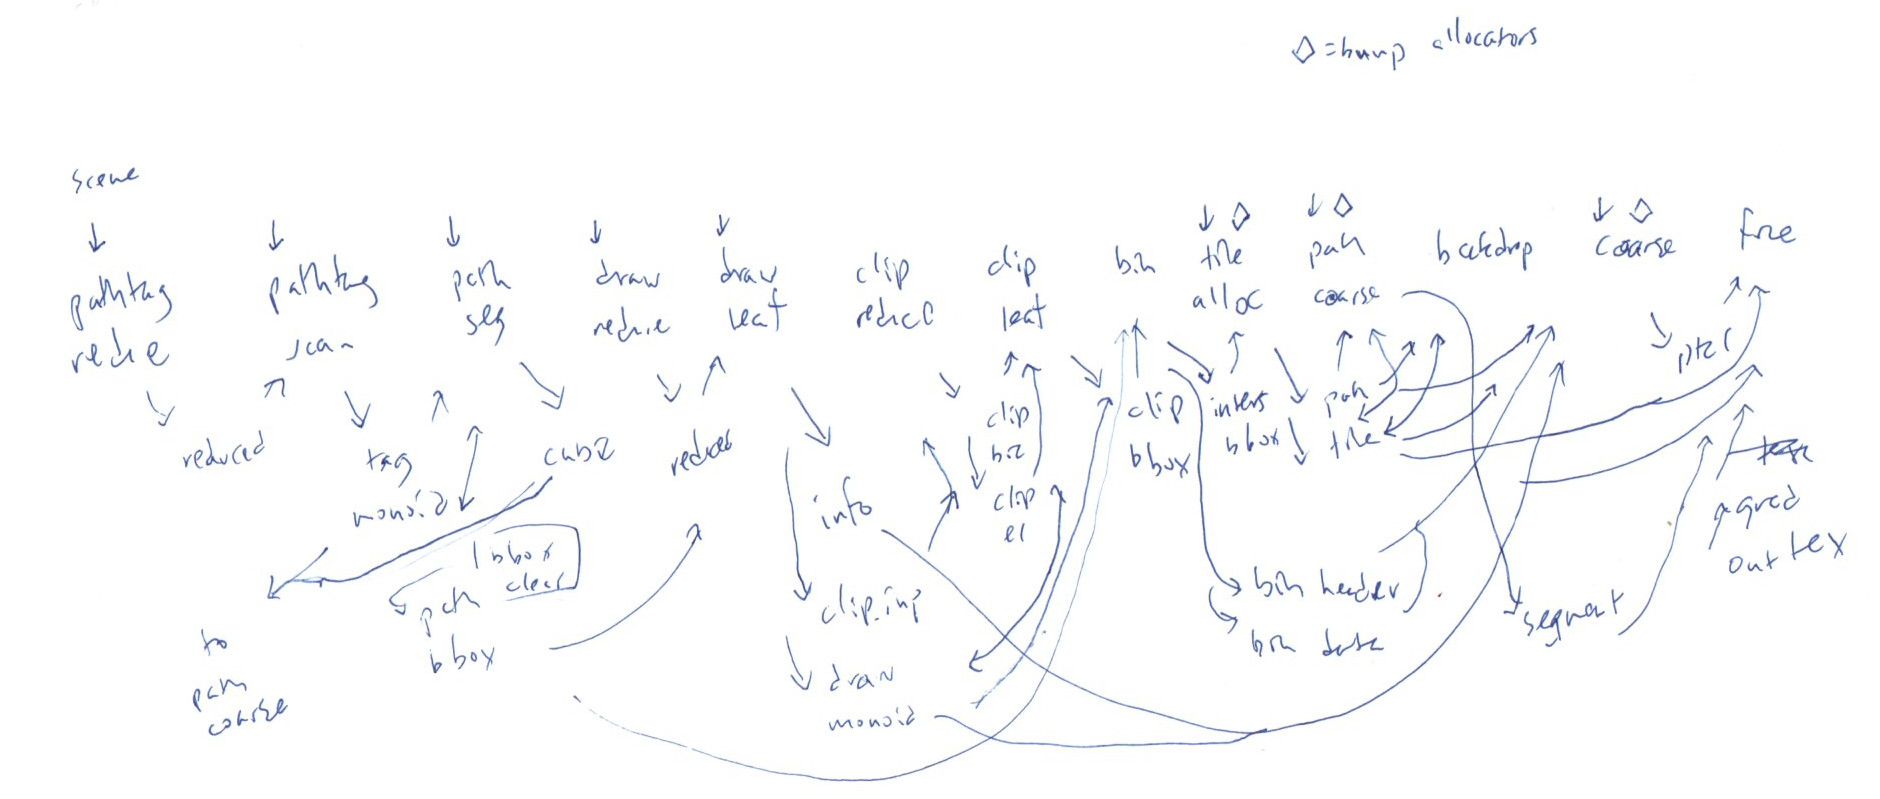
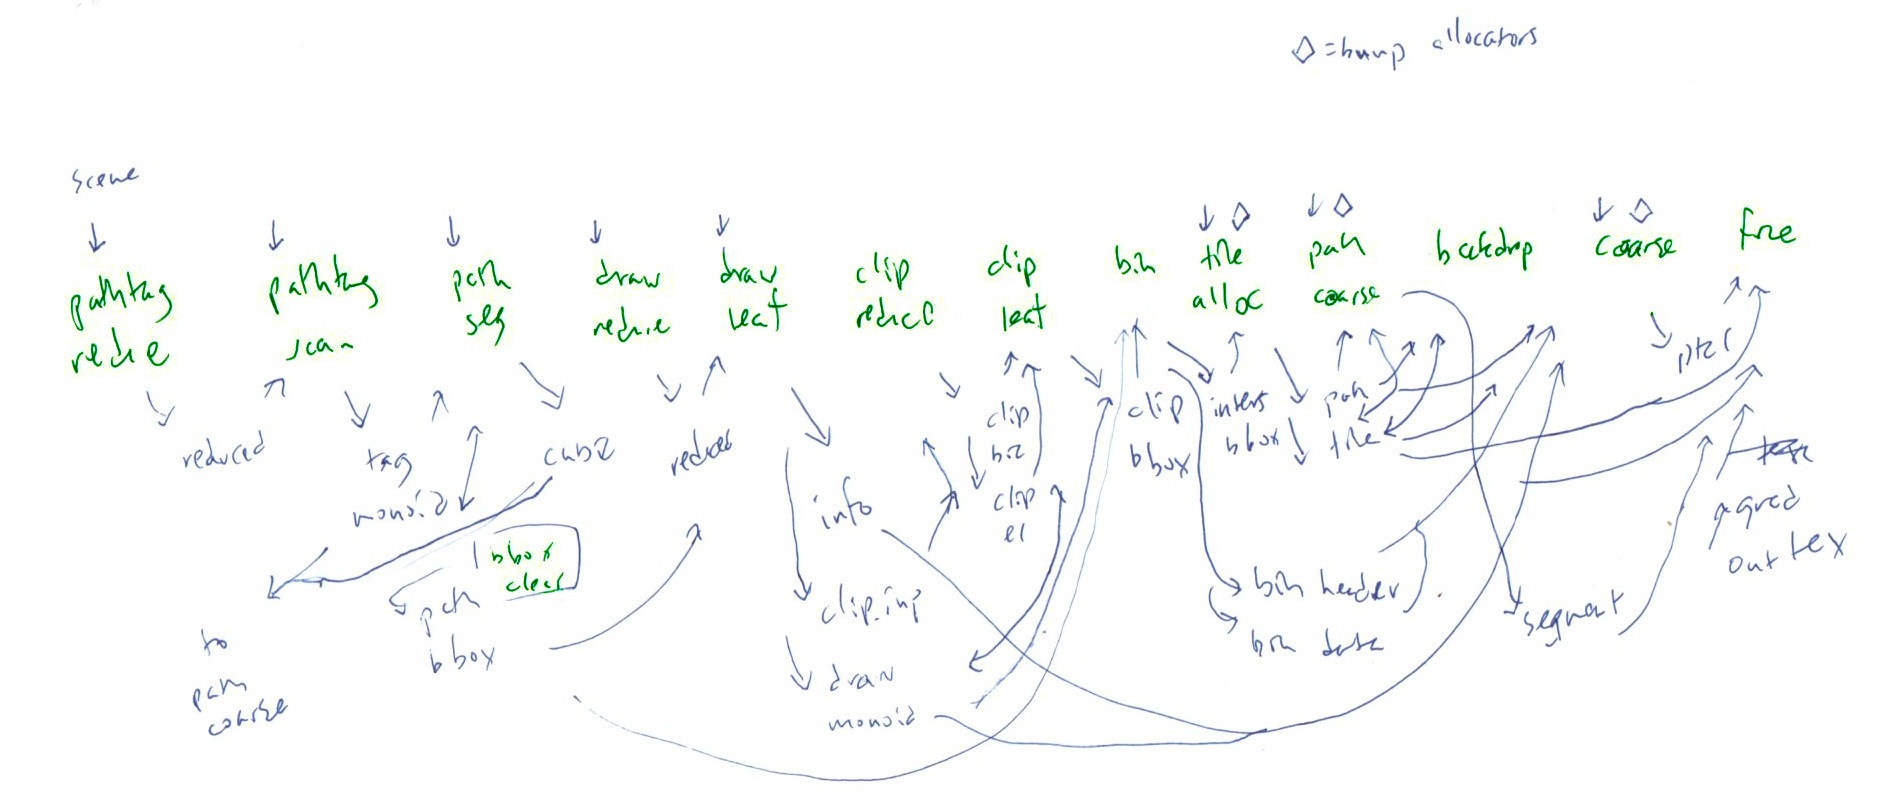
Color code "train diagram"
Also add a bit of explanation.

diff --git a/doc/roadmap_2023.md b/doc/roadmap_2023.md
@@ -62,7 +62,7 @@ We often hear that the Vello design is intimidating, that it seems too much like
 
 Such work deserves a good writeup. The current plan is to write an approximately 20 to 30 page report that explains all important aspects of the design, how they fit together, and enough empirical performance measurement that people can make good decisions based on it. It's always tricky to know *when* to invest in a writeup, especially as we keep iterating on the design itself, but this seems like a good place in the roadmap.
 
-A central part of the writeup is a good visual diagram of the entire pipeline. The below hand-drawn diagram shows the main shader stages and buffers. With nice color coding and a more professional appearance, it could be a great tool to help explain the structure of the system. 
+A central part of the writeup is a good visual diagram of the entire pipeline. The below hand-drawn diagram shows the main shader stages and buffers. With nice color coding and a more professional appearance, it could be a great tool to help explain the structure of the system. (In this diagram, the shader stages are green, and the buffers are dark blue; it is obviously a rough draft)
 
 ![A hand-drawn diagram of the shader stages and buffers](./images/piet-gpu-diagram.jpg)
 
